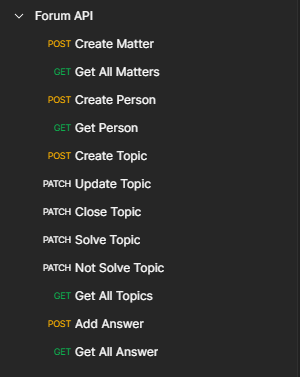
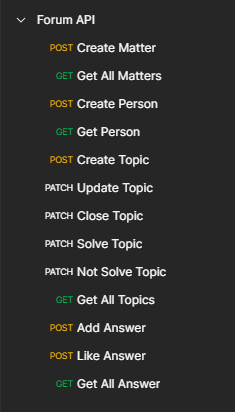
Fix Readme

diff --git a/README.md b/README.md
@@ -14,14 +14,35 @@ This application is an API for a discussion forum on various topics and subjects
 
 
 ## Preview
-```text
-coming soon...
+```
+Matter
+
+GET: http://localhost:8080/matters
+POST: http://localhost:8080/matters
 ```
 
-<p align="center">
-    <img src="./public/1.png" />
-</p>
+```
+Author
 
+GET: http://localhost:8080/author/1
+POST: http://localhost:8080/author
+```
+
+```
+Topic
+
+GET: http://localhost:8080/topics
+POST: http://localhost:8080/topics
+
+PATCH: http://localhost:8080/topics/1
+PATCH: http://localhost:8080/topics/1/close
+PATCH: http://localhost:8080/topics/1/solve
+PATCH: http://localhost:8080/topics/1/not-solve
+
+GET: http://localhost:8080/topics/1/answers
+POST: http://localhost:8080/topics/1/answers
+POST: http://localhost:8080/topics/1/answers/1/like
+```
 
 
 ## Technologies
@@ -29,7 +50,7 @@ This project was developed using the following technologies:
 - [Java](https://www.oracle.com/br/java/technologies/javase-jdk11-downloads.html)
 - [Spring Boot](https://spring.io/projects/spring-boot)
 - [Spring Security](https://spring.io/projects/spring-security)
-- [Spring Data](https://spring.io/projects/spring-data)
+- [Spring Data JPA](https://spring.io/projects/spring-data)
 - [Lombok](https://projectlombok.org/)
 
 
